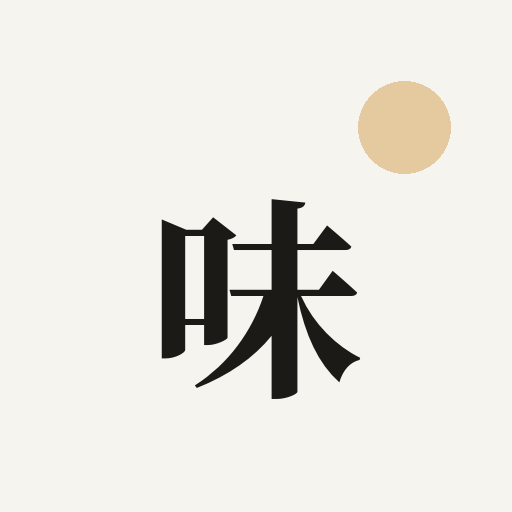
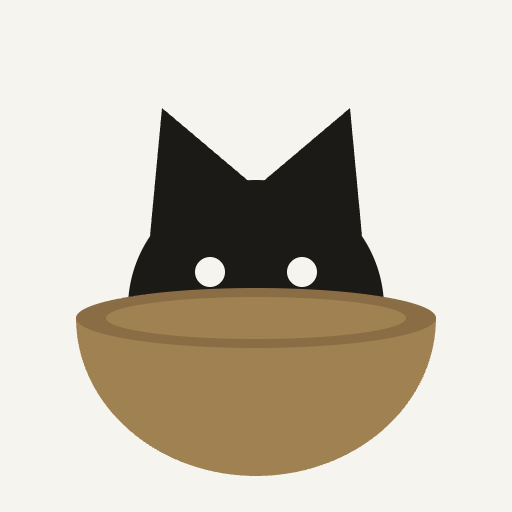
Add files via upload

diff --git a/sw.js b/sw.js
@@ -1,4 +1,4 @@
-const CACHE = "xiaowei-v21";
+const CACHE = "xiaowei-v23";
 const ASSETS = ["./", "./index.html", "./manifest.webmanifest", "./icon-192.png", "./icon-512.png", "./icon-180.png"];
 self.addEventListener("install", (e) => {
   e.waitUntil(caches.open(CACHE).then((c) => c.addAll(ASSETS)).then(() => self.skipWaiting()));